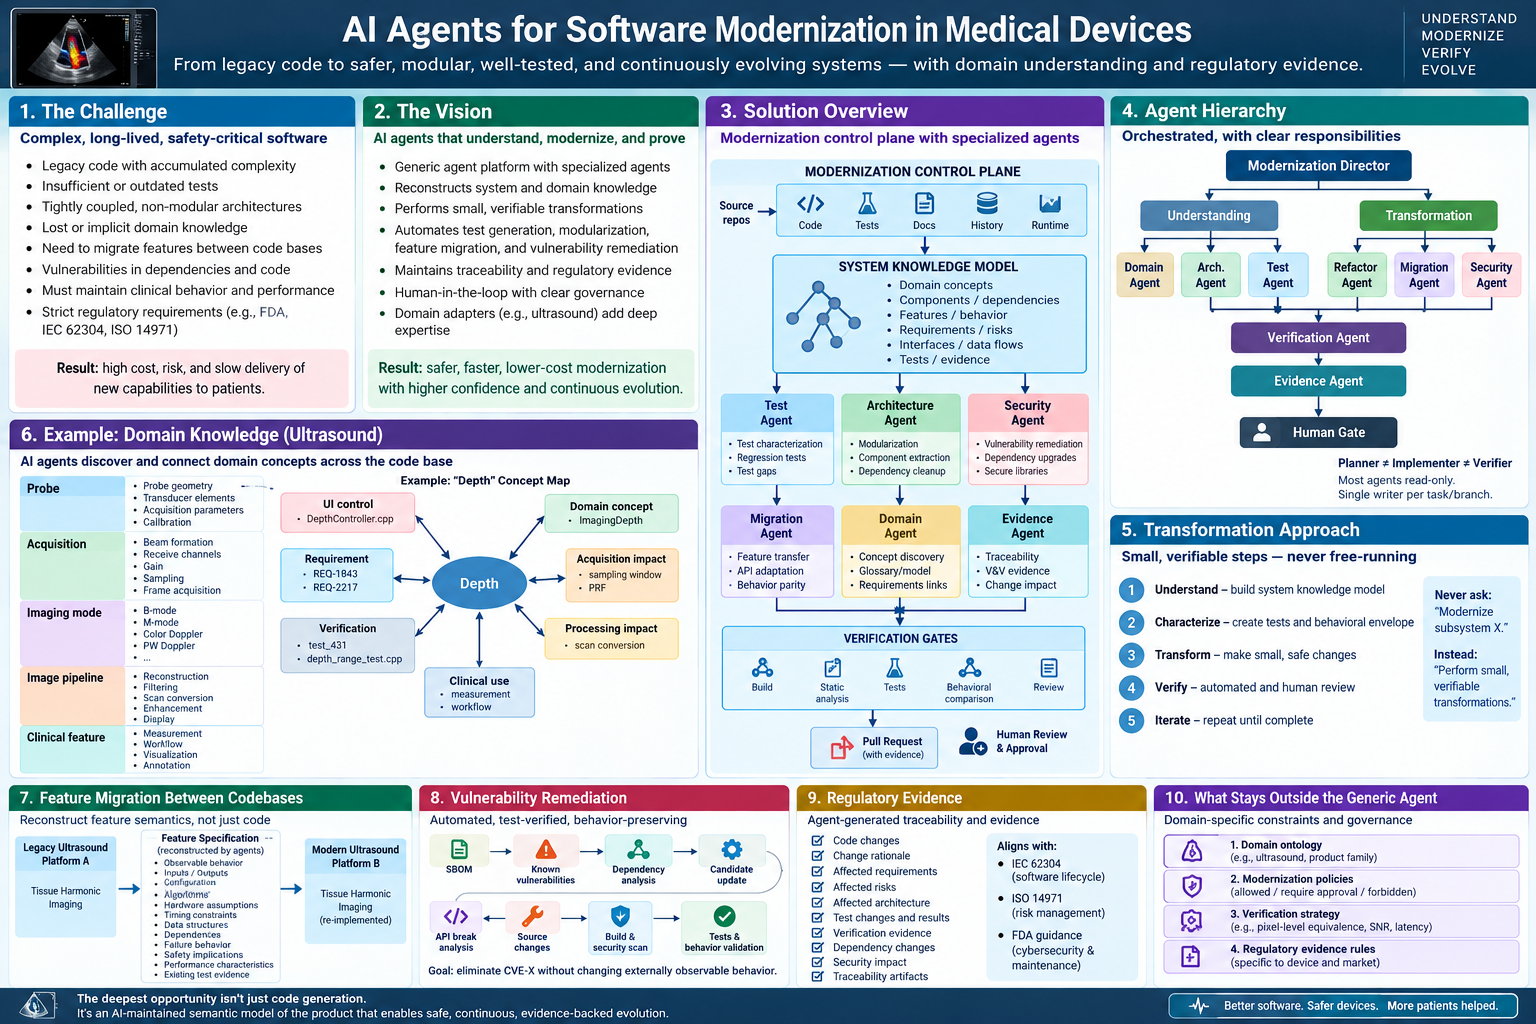
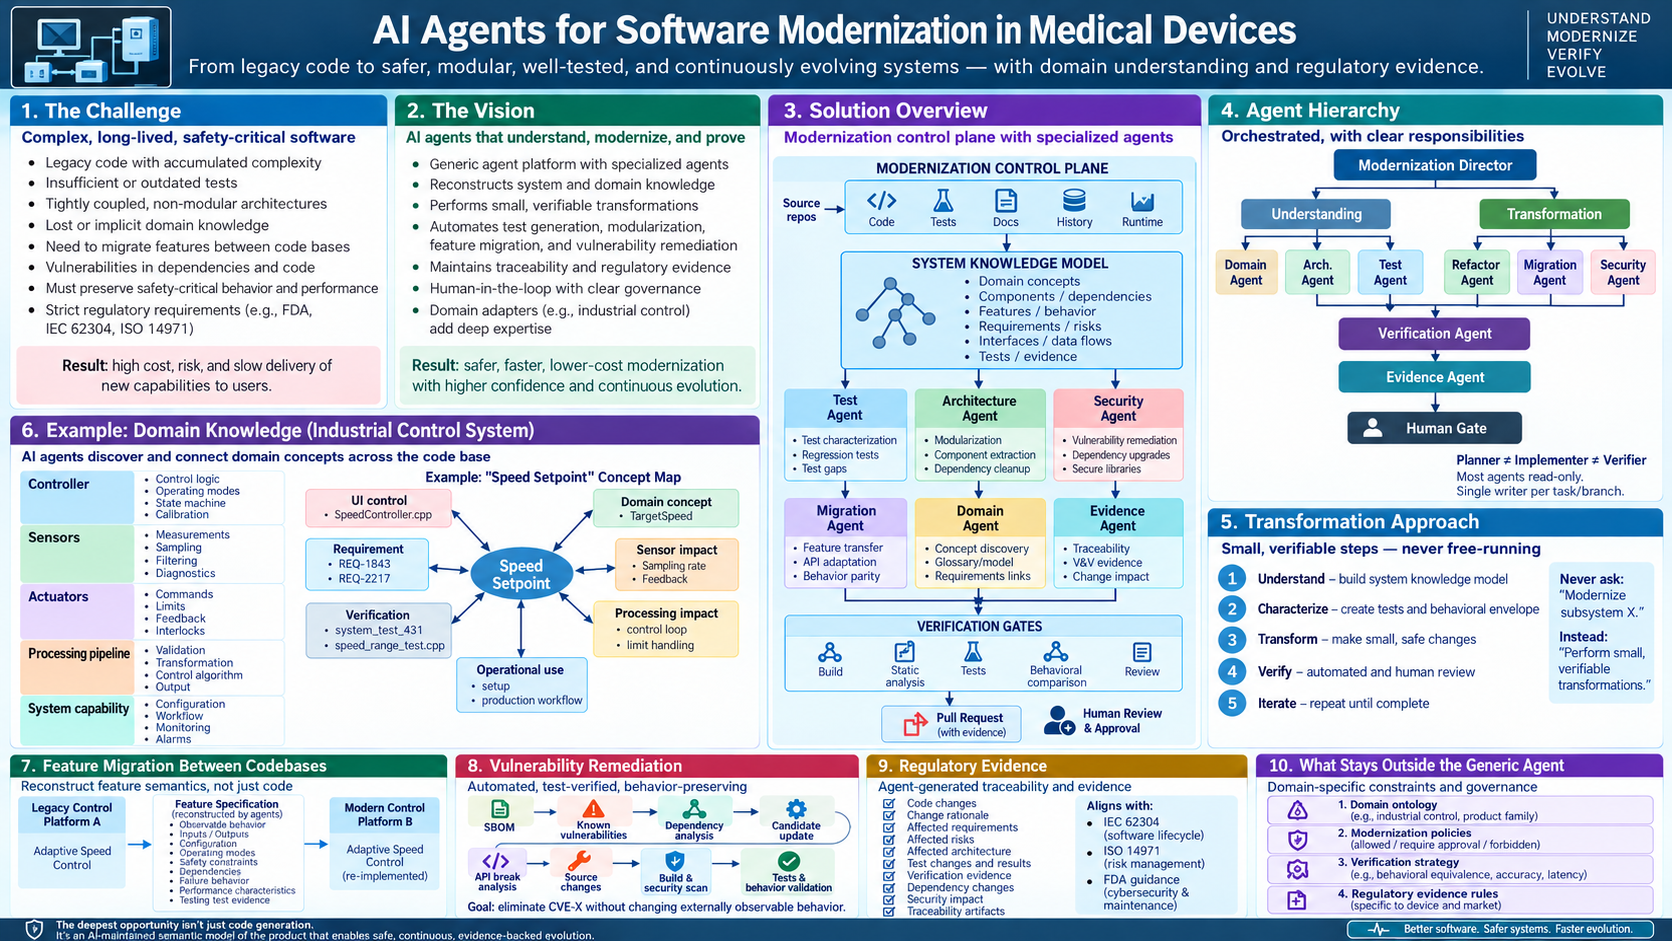
Update modernization overview infographic
Replaces the domain-knowledge example with an industrial control system
("Speed Setpoint" concept map) and an adaptive-speed-control feature
migration; alt text updated to match.

Claude-Session: https://claude.ai/code/session_01KT69JQQ9gWKDtVowCyxWYu

diff --git a/docs/modernization/index.md b/docs/modernization/index.md
@@ -1,6 +1,6 @@
 # Modernization
 
-[![AI agents for software modernization in medical devices: the challenge, the vision, a modernization control plane with specialized agents, an agent hierarchy, the transformation approach, domain knowledge, feature migration, vulnerability remediation, regulatory evidence, and what stays outside the generic agent](../images/medical-device-modernization-overview.png)](../images/medical-device-modernization-overview.png)
+[![AI agents for software modernization in medical devices: the challenge, the vision, a modernization control plane with specialized agents, an agent hierarchy, the transformation approach, a domain-knowledge example from an industrial control system, feature migration, vulnerability remediation, regulatory evidence, and what stays outside the generic agent](../images/medical-device-modernization-overview.png)](../images/medical-device-modernization-overview.png)
 
 *Modernizing safety-critical software, on one page. Select the image to open it at full size.*
 
